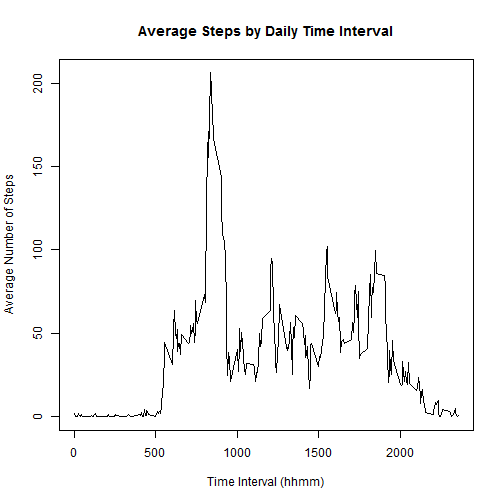
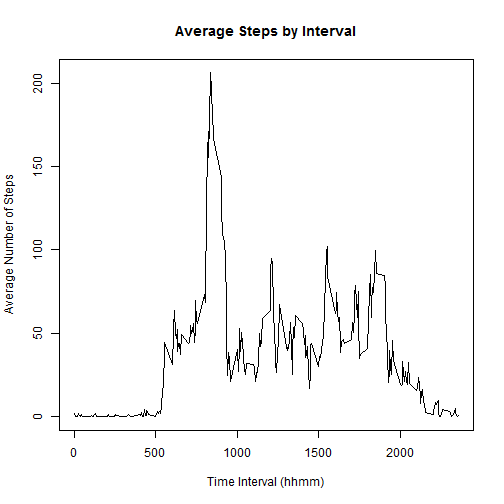
some clean-up

Changed region(s): [[0.2679, 0.0298, 0.7738, 0.0893]]

diff --git a/PA1_template.html b/PA1_template.html
@@ -3,7 +3,7 @@
 <head>
 <meta http-equiv="Content-Type" content="text/html; charset=utf-8"/>
 
-<title>Loading and preprocessing the data</title>
+<title>Abstract</title>
 
 <script type="text/javascript">
 window.onload = function() {
@@ -204,6 +204,10 @@ hr {
 </head>
 
 <body>
+<h2>Abstract</h2>
+
+<p><em>This is an exploratory analysis of data gathered from a personal activity device used by a single subject.  The data gathered consist of the number of steps taken in each five-minute inverval over the course of two months; an observation consists of a number of steps during an interval on a date.  We will attempt to answer several simple questions about the subject&#39;s daily activity, including average number of steps taken per day, average steps taken in each interval across all days, and differences in activity between weekdays and weekend days.</em></p>
+
 <h2>Loading and preprocessing the data</h2>
 
 <p>The dataset is provided as a three-column, 17,568-row CSV file with this simple data dictionary:</p>
@@ -230,7 +234,9 @@ hr {
 
 <p>The dataset is read in as follows (after being extracted from its ZIP archive if nececessary).  Other than defining column classes, no further preprocessing or cleaning is performed at this point.  </p>
 
-<pre><code class="r">if (!file.exists(&quot;activity.csv&quot;)) {
+<pre><code class="r">opts_chunk$set(echo=TRUE)
+
+if (!file.exists(&quot;activity.csv&quot;)) {
     unzip(&quot;activity.zip&quot;)
 }
 
@@ -276,7 +282,7 @@ abline(v=meansteps, col=&quot;red&quot;)
 legend(&quot;topright&quot;, lwd=1, col=c(&quot;red&quot;, &quot;green&quot;), legend=c(&quot;Mean&quot;, &quot;Median&quot;))
 </code></pre>
 
[2 lines of base64/hex data omitted]
 
 <pre><code class="r">print(meansteps)
 </code></pre>
@@ -290,13 +296,13 @@ legend(&quot;topright&quot;, lwd=1, col=c(&quot;red&quot;, &quot;green&quot;), l
 <pre><code>## [1] 10765
 </code></pre>
 
-<p>The mean total number of steps taken per day is \(10766.2\) while the median is \(10765\).  The mean and median are essentially the same; a slight &ldquo;jitter&rdquo; had been added to the median in the plot in order to show it next to the mean; otherwise, the line drawn last would be the only one visible.</p>
+<p>The mean total number of steps taken per day is <strong>10766.2</strong> while the median is <strong>10765</strong>.  The mean and median are essentially the same; a slight &ldquo;jitter&rdquo; had been added to the median in the plot in order to show it next to the mean; otherwise, the line drawn last would be the only one visible.</p>
 
 <h2>What is the average daily activity pattern?</h2>
 
 <p>Next, we analyzed the average number of steps taken in each of the 288 intervals in a day, averaged across all days.  </p>
 
-<p>\(\frac{(24 \text{ hrs/day}) * 60 \text{ min}}{5 \text{ min/interval}} = 288 \text{ intervals/day}\)</p>
+<p>\(\frac{(24 \text{ hrs/day}) \times (60 \text{ min})}{5 \text{ min/interval}} = 288 \text{ intervals/day}\)</p>
 
 <pre><code class="r"># still using dplyr
 interval.avgs &lt;- activity.clean %&gt;% 
@@ -304,11 +310,11 @@ interval.avgs &lt;- activity.clean %&gt;%
                  summarise(avgsteps = mean(steps))
 
 with(interval.avgs, plot(interval, avgsteps, type=&quot;l&quot;, 
-                         main=&quot;Average Steps by Daily Time Interval&quot;, 
+                         main=&quot;Average Steps by Interval&quot;, 
                          xlab=&quot;Time Interval (hhmm)&quot;, ylab=&quot;Average Number of Steps&quot;))
 </code></pre>
 
[2 lines of base64/hex data omitted]
 
 <pre><code class="r"># condense the interval series to one row with the maximum observed value:
 maxint &lt;- filter(interval.avgs, avgsteps==max(avgsteps))
@@ -321,7 +327,7 @@ print(maxint)
 ## 1      835    206.2
 </code></pre>
 
-<p>The interval with the maximum average number of steps occurs at \(835\) with a value of \(206.17\) steps.  This result agrees with the prominent morning peak in the plot above (which, we can speculate, reflects the subject&#39;s daily routine, perhaps his/her commute to work or morning fitness activity).</p>
+<p>The interval with the maximum average number of steps occurs at <strong>835</strong> with a value of <strong>206.17</strong> steps.  This result agrees with the prominent morning peak in the plot above (which, we can speculate, reflects the subject&#39;s daily routine, perhaps his/her commute to work or morning fitness activity).</p>
 
 <h2>Imputing missing values</h2>
 
@@ -334,7 +340,7 @@ print(missing)
 <pre><code>## [1] 2304
 </code></pre>
 
-<p>There are \(2304\) missing observations in the \(17568\) rows.  Obviously, the precise effect of missing values (wrt what would have ideally been observed in a complete set of observations) is unknowable, but we will explore the question by substituting (&ldquo;plugging&rdquo;) estimated values for the missing observations and re-analyzing the resulting dataset.  We will replace each missing value with average for that interval across all days (as calculated above).</p>
+<p>There are <strong>2304</strong> missing observations in the <strong>17568</strong> rows.  Obviously, the precise effect of missing values (wrt what would have ideally been observed in a complete set of observations) is unknowable, but we will explore the question by substituting (&ldquo;plugging&rdquo;) estimated values for the missing observations and re-analyzing the resulting dataset.  We will replace each missing value with average for that interval across all days (as calculated above).</p>
 
 <pre><code class="r">activity.na &lt;- filter(activity, is.na(steps))
 
@@ -364,7 +370,7 @@ str(activity.fix)
 <pre><code>## [1] 17568
 </code></pre>
 
-<p>In this way, we have assembled a complete series of \(17568\) observations from the \(15264\) complete observations and the \(2304\) averages substituted for missing values.</p>
+<p>In this way, we have assembled a complete series of <strong>17568</strong> observations from the <strong>15264</strong> complete observations and the <strong>2304</strong> averages substituted for missing values.</p>
 
 <p>Here, we re-create the first analysis from above, now applied to the complete series with missing data filled-in using invterval averages:</p>
 
@@ -373,7 +379,7 @@ str(activity.fix)
            summarise(steps=sum(steps))
 
 hist(daysum2$steps, breaks=10, col=&quot;blue&quot;, main=&quot;Daily Step Totals Frequency of Occurrence&quot;, 
-     xlab=&quot;Total Daily Steps&quot;)
+     xlab=&quot;Total Daily Steps&quot;, sub=&quot;(missing intervals imputed from averages)&quot;)
 
 meansteps2 &lt;- mean(daysum2$steps)
 mediansteps2 &lt;- median(daysum2$steps)
@@ -382,7 +388,7 @@ abline(v=meansteps2, col=&quot;red&quot;)
 legend(&quot;topright&quot;, lwd=1, col=c(&quot;red&quot;, &quot;green&quot;), legend=c(&quot;Mean&quot;, &quot;Median&quot;))
 </code></pre>
 
[2 lines of base64/hex data omitted]
 
 <pre><code class="r">print(meansteps2)
 </code></pre>
@@ -396,7 +402,7 @@ legend(&quot;topright&quot;, lwd=1, col=c(&quot;red&quot;, &quot;green&quot;), l
 <pre><code>## [1] 10766
 </code></pre>
 
-<p>For the dataset with filled-in values, the mean number of daily steps is \(10766.2\) and the median is \(10766\), both of which are practically identical to  the corresponding values computed on the dataset of complete observations (see above).  This is not a surprising result: by adding means of the component intervals as missing values, we do not change the means of their sums. </p>
+<p>For the dataset with filled-in values, the mean number of daily steps is <strong>10766.2</strong> and the median is <strong>10766</strong>, both of which are practically identical to  the corresponding values computed on the dataset of complete observations (see above).  This is not a surprising result: by adding means of the component intervals as missing values, we do not change the means of their sums. </p>
 
 <p>As an aside, it is interesting to note that the missing data occurs in a pattern of entire days, not intervals within a day for which observations were recorded:</p>
 
@@ -411,7 +417,8 @@ days.found &lt;- activity.clean %&gt;%
               distinct
 # days with some missing, some present data would be here
 days.mixed &lt;- intersect(days.missing$date, days.found$date)
-print(length(days.mixed))
+ct.mixed &lt;- length(days.mixed)
+print(ct.mixed)
 
 </code></pre>
 
@@ -424,7 +431,7 @@ print(interval.avgs.sum)
 <pre><code>## [1] 10766
 </code></pre>
 
-<p>The sum of the average intervals is \(10766.2\), which is (unsurprisingly) the same as the average of the intervals summed by day.  The conclusion is that this approach to filling in missing data does nothing to change the overall analysis, since the estimate of the total daily number of steps is the same; it will, however, tend to reduce the effect analyzed in the next part, weekday vs. weekend activity levels, since plugging average values is insensitive to weekday vs. weekend.  A more sophisticated fill-in approach might take this difference into account use weekend or weekday averages of known values depending on the day being filled in.</p>
+<p>The sum of the average intervals is <strong>10766.2</strong>, which is (unsurprisingly) the same as the average of the intervals summed by day.  The conclusion is that this approach to filling in missing data does nothing to change the overall analysis, since the estimate of the total daily number of steps is the same; it will, however, tend to reduce the effect analyzed in the next part, weekday vs. weekend activity levels, since plugging average values is insensitive to weekday vs. weekend.  A more sophisticated fill-in approach might take this difference into account use weekend or weekday averages of known values depending on the day being filled in.</p>
 
 <h2>Are there differences in activity patterns between weekdays and weekends?</h2>
 
@@ -477,7 +484,7 @@ print(weekpart.summary)
 weekend.avg &lt;- weekpart.summary %&gt;% filter(weekpart==&quot;weekend&quot;) %&gt;% select(avgsteps) %&gt;% unlist
 </code></pre>
 
-<p>On weekdays, the subject took an average of \(10255.8\) steps, while his/her weekend average was \(12201.5\) or \(19\%\) more.</p>
+<p>On weekdays, the subject took an average of <strong>10255.8</strong> steps, while his/her weekend average was <strong>12201.5</strong> or <strong>19%</strong> more.</p>
 
 </body>
 

diff --git a/PA1_template.md b/PA1_template.md
@@ -5,6 +5,10 @@ output:
   keep_md: true
 ---
 
+## Abstract
+
+*This is an exploratory analysis of data gathered from a personal activity device used by a single subject.  The data gathered consist of the number of steps taken in each five-minute inverval over the course of two months; an observation consists of a number of steps during an interval on a date.  We will attempt to answer several simple questions about the subject's daily activity, including average number of steps taken per day, average steps taken in each interval across all days, and differences in activity between weekdays and weekend days.*
+
 ## Loading and preprocessing the data
 
 The dataset is provided as a three-column, 17,568-row CSV file with this simple data dictionary:
@@ -19,6 +23,8 @@ The dataset is read in as follows (after being extracted from its ZIP archive if
 
 
 ```r
+opts_chunk$set(echo=TRUE)
+
 if (!file.exists("activity.csv")) {
     unzip("activity.zip")
 }
@@ -90,13 +96,13 @@ print(mediansteps)
 ## [1] 10765
 ```
 
-The mean total number of steps taken per day is $10766.2$ while the median is $10765$.  The mean and median are essentially the same; a slight "jitter" had been added to the median in the plot in order to show it next to the mean; otherwise, the line drawn last would be the only one visible.
+The mean total number of steps taken per day is **10766.2** while the median is **10765**.  The mean and median are essentially the same; a slight "jitter" had been added to the median in the plot in order to show it next to the mean; otherwise, the line drawn last would be the only one visible.
 
 
 ## What is the average daily activity pattern?
 Next, we analyzed the average number of steps taken in each of the 288 intervals in a day, averaged across all days.  
 
-$\frac{(24 \text{ hrs/day}) * 60 \text{ min}}{5 \text{ min/interval}} = 288 \text{ intervals/day}$
+$\frac{(24 \text{ hrs/day}) \times (60 \text{ min})}{5 \text{ min/interval}} = 288 \text{ intervals/day}$
 
 
 ```r
@@ -106,7 +112,7 @@ interval.avgs <- activity.clean %>%
                  summarise(avgsteps = mean(steps))
 
 with(interval.avgs, plot(interval, avgsteps, type="l", 
-                         main="Average Steps by Daily Time Interval", 
+                         main="Average Steps by Interval", 
                          xlab="Time Interval (hhmm)", ylab="Average Number of Steps"))
 ```
 
@@ -125,7 +131,7 @@ print(maxint)
 ## 1      835    206.2
 ```
 
-The interval with the maximum average number of steps occurs at $835$ with a value of $206.17$ steps.  This result agrees with the prominent morning peak in the plot above (which, we can speculate, reflects the subject's daily routine, perhaps his/her commute to work or morning fitness activity).
+The interval with the maximum average number of steps occurs at **835** with a value of **206.17** steps.  This result agrees with the prominent morning peak in the plot above (which, we can speculate, reflects the subject's daily routine, perhaps his/her commute to work or morning fitness activity).
 
 ## Imputing missing values
 
@@ -141,7 +147,7 @@ print(missing)
 ## [1] 2304
 ```
 
-There are $2304$ missing observations in the $17568$ rows.  Obviously, the precise effect of missing values (wrt what would have ideally been observed in a complete set of observations) is unknowable, but we will explore the question by substituting ("plugging") estimated values for the missing observations and re-analyzing the resulting dataset.  We will replace each missing value with average for that interval across all days (as calculated above).
+There are **2304** missing observations in the **17568** rows.  Obviously, the precise effect of missing values (wrt what would have ideally been observed in a complete set of observations) is unknowable, but we will explore the question by substituting ("plugging") estimated values for the missing observations and re-analyzing the resulting dataset.  We will replace each missing value with average for that interval across all days (as calculated above).
 
 
 ```r
@@ -178,7 +184,7 @@ sum(complete.cases(activity.fix))
 ## [1] 17568
 ```
 
-In this way, we have assembled a complete series of $17568$ observations from the $15264$ complete observations and the $2304$ averages substituted for missing values.
+In this way, we have assembled a complete series of **17568** observations from the **15264** complete observations and the **2304** averages substituted for missing values.
 
 Here, we re-create the first analysis from above, now applied to the complete series with missing data filled-in using invterval averages:
 
@@ -189,7 +195,7 @@ daysum2 <- activity.fix %>%
            summarise(steps=sum(steps))
 
 hist(daysum2$steps, breaks=10, col="blue", main="Daily Step Totals Frequency of Occurrence", 
-     xlab="Total Daily Steps")
+     xlab="Total Daily Steps", sub="(missing intervals imputed from averages)")
 
 meansteps2 <- mean(daysum2$steps)
 mediansteps2 <- median(daysum2$steps)
@@ -216,7 +222,7 @@ print(mediansteps2)
 ## [1] 10766
 ```
 
-For the dataset with filled-in values, the mean number of daily steps is $10766.2$ and the median is $10766$, both of which are practically identical to  the corresponding values computed on the dataset of complete observations (see above).  This is not a surprising result: by adding means of the component intervals as missing values, we do not change the means of their sums. 
+For the dataset with filled-in values, the mean number of daily steps is **10766.2** and the median is **10766**, both of which are practically identical to  the corresponding values computed on the dataset of complete observations (see above).  This is not a surprising result: by adding means of the component intervals as missing values, we do not change the means of their sums. 
 
 As an aside, it is interesting to note that the missing data occurs in a pattern of entire days, not intervals within a day for which observations were recorded:
 
@@ -232,7 +238,8 @@ days.found <- activity.clean %>%
               distinct
 # days with some missing, some present data would be here
 days.mixed <- intersect(days.missing$date, days.found$date)
-print(length(days.mixed))
+ct.mixed <- length(days.mixed)
+print(ct.mixed)
 
 ```
 
@@ -248,7 +255,7 @@ print(interval.avgs.sum)
 ## [1] 10766
 ```
 
-The sum of the average intervals is $10766.2$, which is (unsurprisingly) the same as the average of the intervals summed by day.  The conclusion is that this approach to filling in missing data does nothing to change the overall analysis, since the estimate of the total daily number of steps is the same; it will, however, tend to reduce the effect analyzed in the next part, weekday vs. weekend activity levels, since plugging average values is insensitive to weekday vs. weekend.  A more sophisticated fill-in approach might take this difference into account use weekend or weekday averages of known values depending on the day being filled in.
+The sum of the average intervals is **10766.2**, which is (unsurprisingly) the same as the average of the intervals summed by day.  The conclusion is that this approach to filling in missing data does nothing to change the overall analysis, since the estimate of the total daily number of steps is the same; it will, however, tend to reduce the effect analyzed in the next part, weekday vs. weekend activity levels, since plugging average values is insensitive to weekday vs. weekend.  A more sophisticated fill-in approach might take this difference into account use weekend or weekday averages of known values depending on the day being filled in.
 
 ## Are there differences in activity patterns between weekdays and weekends?
 
@@ -307,4 +314,4 @@ weekday.avg <- weekpart.summary %>% filter(weekpart=="weekday") %>% select(avgst
 weekend.avg <- weekpart.summary %>% filter(weekpart=="weekend") %>% select(avgsteps) %>% unlist
 ```
 
-On weekdays, the subject took an average of $10255.8$ steps, while his/her weekend average was $12201.5$ or $19\%$ more.
+On weekdays, the subject took an average of **10255.8** steps, while his/her weekend average was **12201.5** or **19%** more.
